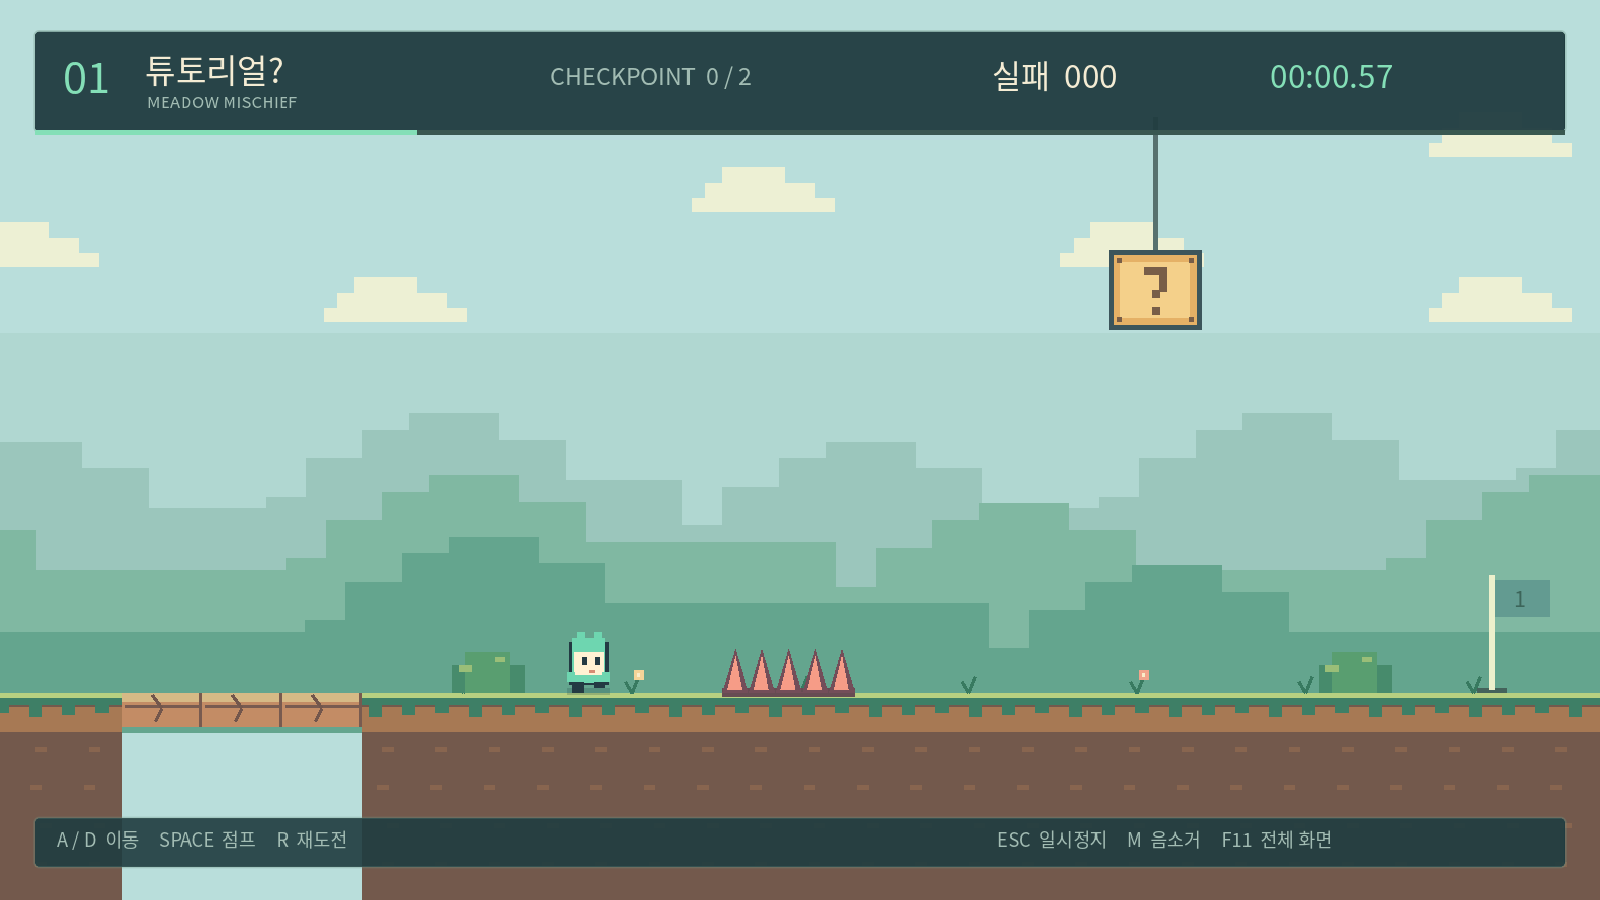
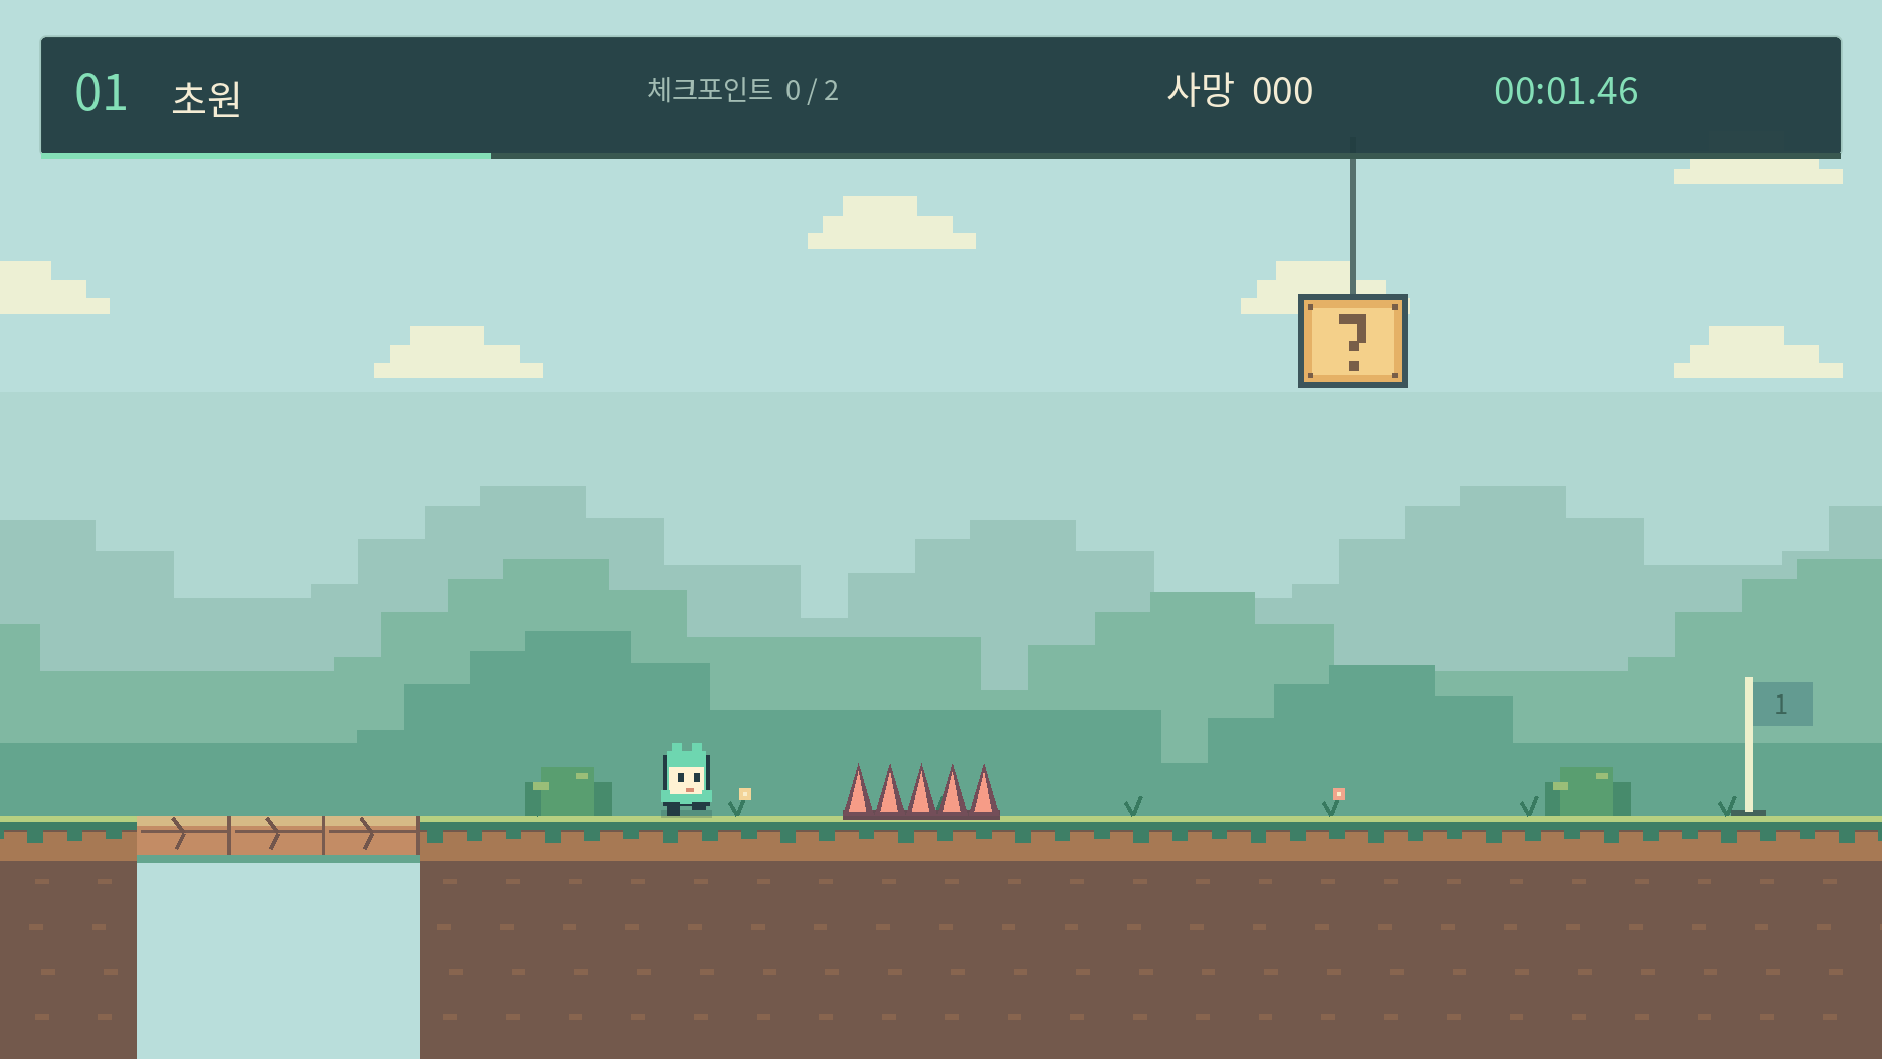
fix: use minimal player copy and bind global copy skill

diff --git a/README.md b/README.md
@@ -1,53 +1,35 @@
-# 한 번만 더! · ONE MORE TRY!
+# 한 번만 더!
 
-쉬운 조작, 수상한 바닥, 빠른 재도전. Godot 4.6.3으로 만든 Windows용 2D 트랩 플랫포머입니다.
-
-**[Windows 다운로드](https://github.com/nu4ddi4/side-scroller-game/releases/latest)** · [기획안](docs/DESIGN.md) · [함정 개편 설계](docs/TRAP_DESIGN.md) · [개발 및 브랜치 운영](docs/DEVELOPMENT.md) · [검증 결과](docs/VALIDATION.md)
+**[Windows 다운로드](https://github.com/nu4ddi4/side-scroller-game/releases/latest)**
 
 ![타이틀 화면](docs/images/title.png)
 
-## 플레이
+## 실행
 
-beta에서는 창을 최대화한 상태로 시작하고, 게임 화면을 창 크기에 맞춰 비율을 유지하며 확대합니다. F11로 전체 화면에 들어갔다 나오면 이전 창 상태로 돌아갑니다. 월드의 안내 팻말과 비밀 길 설명은 제거했습니다. 새 함정 40개를 5장에 걸친 플레이 순서와 상세 카드로 정리했으며 아직 게임에 구현하지 않았습니다.
+설치 파일을 실행한 뒤 시작 메뉴에서 **One More Try!**를 여세요. ZIP은 압축을 풀고 `OneMoreTry.exe`를 실행하면 됩니다.
 
-릴리스의 **`OneMoreTry-v0.2.0-Windows-x64-Setup.exe`**를 실행하면 사용자 계정에 설치됩니다. 시작 메뉴에서 **One More Try!**를 실행하세요. 관리자 권한은 필요하지 않으며 바탕 화면 바로 가기는 설치 중 선택할 수 있습니다. 설치 없이 실행하려면 함께 제공하는 ZIP을 풀고 `OneMoreTry.exe`를 실행하세요. Godot이나 별도 런타임을 설치할 필요가 없습니다. Windows 10/11 64비트와 OpenGL 3.3 호환 그래픽 환경을 대상으로 합니다.
+Windows 10/11 x64 · OpenGL 3.3
+
+## 조작
 
 | 키 | 동작 |
 | --- | --- |
 | A / D, ← / → | 이동 |
-| Space | 점프 · 길게 누르면 더 높이 |
-| R | 마지막 체크포인트에서 즉시 재도전 |
-| ESC | 일시정지 · 계속하기 |
-| M | 전체 음소거 전환 · 음악/효과음 개별 설정 유지 |
-| F11 | 전체 화면 전환 |
-| Tab / Enter | 메뉴 이동 · 선택 |
-
-R 재도전은 실패 1회로 집계합니다. 일시정지 메뉴의 `처음부터 재도전`은 새 도전을 시작합니다. 클리어 시간은 실패·복귀 시간을 포함하며 일시정지 시간은 제외합니다. 진행 위치는 현재 도전 중에 유지하고, 개인 기록은 프로그램 종료 후에도 저장합니다.
-
-## 업데이트
-
-Windows 배포본은 시작할 때 GitHub의 최신 정식 릴리스를 한 번 확인합니다. 타이틀의 **업데이트 확인 / 새 버전 받기 → 다운로드 → 설치하고 종료**에서 직접 설치할 수 있습니다. 다운로드한 설치 파일의 크기와 GitHub의 SHA-256이 일치해야 실행합니다. 다운로드 취소·연결 실패 후에도 게임은 계속할 수 있고, 인터넷 없이 플레이할 수 있습니다. 미리보기 릴리스와 이전 버전은 설치하지 않습니다.
-
-설치는 기존 사용자 설치를 갱신하며 기록은 유지합니다. Windows 설정에서 게임을 제거해도 기록은 남습니다. 기존 v0.1.0에는 업데이트 기능이 없으므로 v0.2.0 설치 파일을 한 번 직접 실행해야 합니다. ZIP 사용자도 업데이트를 설치하면 설치형으로 전환됩니다.
-
-## 현재 버전: 초원 MVP
-
-기획안의 최소 기능 제품 범위인 **스테이지 1개**를 먼저 완성했습니다.
-
-- 가변 점프, 공중 제어, 코요테 타임과 점프 입력 버퍼
-- 밟으면 무너지는 발판, 접근 시 돌출되는 가시, 경고 후 떨어지는 블록
-- 약 0.38초 뒤 자동 복귀, 체크포인트 2개, 카메라 추적
-- 한국어 메뉴·HUD·일시정지·클리어 화면과 사망 횟수 메시지
-- 총 실패, 도전·클리어 수, 최고 시간, 노데스와 비밀 발견 기록
-- 숨겨진 별과 상단 경로, 자체 합성한 칩튠 BGM과 효과음
+| Space | 점프 |
+| R | 다시하기 |
+| ESC | 일시정지 |
+| M | 음소거 |
+| F11 | 전체 화면 |
 
 ![플레이 화면](docs/images/gameplay.png)
 
-스테이지 2~5, 움직이는 장애물, 가짜 코인 등 추가 기믹은 후속 개발 범위입니다. 현재 기록은 첫 스테이지를 기준으로 집계합니다. 기존 `index.html`은 과거 웹 초안이며 현재 게임의 실행 파일은 위 Windows 릴리스입니다.
+## 업데이트
+
+메뉴의 **업데이트**에서 새 버전을 설치할 수 있습니다. 기존 v0.1.0 사용자는 설치 파일을 직접 실행해 주세요.
 
 ## 개발
 
-Godot 4.6.3 Standard에서 `project.godot`을 열고 F5로 실행합니다.
+Godot 4.6.3에서 `project.godot`을 엽니다.
 
 ```bash
 godot --headless --editor --import --quit
@@ -56,6 +38,6 @@ godot --headless --fixed-fps 120 --script tests/playthrough.gd -- --test
 python3 tools/test_updater.py
 ```
 
-개발 흐름은 **`beta`에서 기능 브랜치 생성 → `beta` PR 병합 → `main` 배포 PR 병합**입니다. GitHub Actions에서 브랜치 방향, 물리·저장 회귀 검사, 전체 스테이지 통과, Windows 빌드·설치·재설치·제거와 기록 보존을 확인합니다. `main` 병합 후 새 프로젝트 버전이면 검증한 설치 파일과 ZIP을 정식 GitHub 릴리스로 게시합니다.
+[개발 문서](docs/DEVELOPMENT.md) · [설계](docs/DESIGN.md) · [검증](docs/VALIDATION.md)
 
-코드와 원본 오디오 생성 도구는 이 저장소에 있습니다. Noto Sans CJK 폰트와 Godot 및 엔진 내 제3자 구성 요소의 라이선스는 `assets/fonts/LICENSE.txt`, `docs/GODOT_LICENSE.txt`, `docs/GODOT_COPYRIGHT.txt`를 참고하세요.
+라이선스: `assets/fonts/LICENSE.txt`, `docs/GODOT_LICENSE.txt`, `docs/GODOT_COPYRIGHT.txt`.

diff --git a/docs/VALIDATION.md b/docs/VALIDATION.md
@@ -47,3 +47,11 @@ Windows CI는 설치형 빌드, 한글과 공백이 포함된 경로의 설치·
 Linux X11/Xvfb와 Openbox의 소프트웨어 OpenGL 창에서 최대화 시작(mode 2), F11 전체 화면(mode 3), 최대화 복귀(mode 2)를 확인했습니다. 960×540·1280×720·1600×900의 16:9 창에서 렌더 영역이 각각 창 크기와 일치하고 메뉴·HUD가 잘리지 않는 것을 확인했습니다. 다른 종횡비에서는 960×540의 논리 화면 비율을 유지하므로 작은 여백이 생길 수 있습니다. Windows 장치의 대화형 창 동작은 별도 확인 범위이며 CI에서는 Windows 내보내기·설치·기동을 검증합니다.
 
 기존 게임 검사 58개, 업데이트 검사 54개, 일반 입력 스테이지 노데스 통과(14.81초)를 다시 확인했습니다. 점프 설계에 사용한 평지 높이·거리는 `tools/probe_jumps.gd`로 재현할 수 있으며, 설계 단계인 새 함정의 통과를 증명하는 결과는 아닙니다.
+
+## beta 문구 정리
+
+플레이어 화면에서 슬로건, 장르 소개, 기능 개수, 기획 설명, 사망 원인과 해법, 사망 횟수별 농담을 제거했습니다. 메뉴·지역 이름·기록·결과는 짧은 기능 문구로 정리했습니다. 공개 README와 배포 안내도 같은 기준으로 줄이고 개발 상세는 내부 문서에 남겼습니다. 업데이트 상태와 오류 문구는 실제 선택에 필요한 정보만 남겼습니다.
+
+`plain-product-copy`를 사용자 전역 스킬 경로 `~/.agents/skills/plain-product-copy/`에 설치하고 전역 Codex 지침에 연결했습니다. 저장소 AGENTS.md에도 플레이어 문구 작업에 이 스킬을 적용하도록 기록했습니다. 내부 스킬/지침 파일은 Windows 내보내기에서 제외합니다.
+
+게임 검사 58개, 업데이트 검사 54개와 일반 입력 전체 스테이지 통과(14.81초, 실패 0회)를 확인했습니다. 소프트웨어 OpenGL로 타이틀·플레이·일시정지·클리어·기록 화면을 캡처해 문구와 배치를 확인했고 포함 폰트의 한국어 글리프도 확인했습니다. 스킬 frontmatter와 agents/openai.yaml은 YAML 파싱을 통과했으며 다른 환경으로 옮길 수 있는 ZIP을 만들었습니다.

diff --git a/docs/RELEASE_NOTES.md b/docs/RELEASE_NOTES.md
@@ -1,14 +1,9 @@
-Windows 설치형 배포와 게임 내 업데이트를 추가한 v0.2.0입니다.
+# v0.2.0
 
-- **권장 다운로드: `OneMoreTry-v0.2.0-Windows-x64-Setup.exe`**. 관리자 권한 없이 설치하며 시작 메뉴, 선택형 바탕 화면 바로 가기, 제거 프로그램을 제공합니다.
-- 타이틀에서 **업데이트 확인 → 다운로드 → 설치하고 종료**. GitHub의 새 정식 릴리스 설치 파일을 받아 크기와 SHA-256을 검증한 후 실행합니다.
-- 시작 시 새 버전을 한 번 확인하며 연결 실패·다운로드 취소 후에도 오프라인 플레이를 계속할 수 있습니다. 베타·이전 버전은 설치하지 않습니다.
-- 설치·업데이트·제거 후에도 기존 기록을 유지합니다. ZIP 배포본도 함께 제공합니다.
+- 설치형: `OneMoreTry-v0.2.0-Windows-x64-Setup.exe`
+- ZIP: 압축을 풀고 `OneMoreTry.exe` 실행
+- 메뉴에서 업데이트 확인 및 설치
 
-**v0.1.0 사용자는 이번 설치 파일을 직접 실행해 주세요.** 이전 버전에는 업데이트 기능이 없습니다. ZIP 배포본에서 게임 내 업데이트를 설치하면 설치형으로 전환되므로 이후 시작 메뉴에서 실행하세요.
+v0.1.0 사용자는 설치 파일을 직접 실행해 주세요.
 
-Windows 10/11 x64 및 OpenGL 3.3 환경용 Godot 4.6.3 게임입니다. 초원 스테이지 1개와 기존 게임 기능을 포함합니다. 실행 파일과 설치 파일에는 코드 서명이 적용되지 않았습니다.
-
-게임 회귀 검사, 일반 입력 전체 스테이지 통과, 실제 HTTP 다운로드 및 손상 파일 검증과 Windows 설치·재설치·실행·제거·기록 보존을 통과한 파일을 배포합니다. 장치별 GPU·오디오와 대화형 설치 UI는 별도 수동 플레이 테스트 범위입니다.
-
-소스와 설치 스크립트는 이 태그를 참고하세요. `feature/* → beta → main` 병합 후 GitHub Actions에서 검증하고 배포합니다.
+Windows 10/11 x64 · OpenGL 3.3

diff --git a/docs/DESIGN.md b/docs/DESIGN.md
@@ -80,13 +80,13 @@
 
 | 스테이지 | 테마 | 주요 기믹 |
 |---|---|---|
-| 1. 튜토리얼? | 초원 | 낙하 바닥, 갑자기 등장하는 가시 |
-| 2. 믿지 마세요 | 동굴 | 가짜 코인, 숨겨진 발판 |
-| 3. 타이밍 지옥 | 공장 | 움직이는 가시, 압축기 |
-| 4. 안전한 길 | 하늘 | 사라지는 발판, 낙하 함정 |
-| 5. 마지막 기회 | 혼합 | 기존 함정 조합, 가짜 골인 |
+| 1. 초원 | 초원 | 낙하 바닥, 갑자기 등장하는 가시 |
+| 2. 동굴 | 동굴 | 가짜 코인, 숨겨진 발판 |
+| 3. 공장 | 공장 | 움직이는 가시, 압축기 |
+| 4. 하늘 | 하늘 | 사라지는 발판, 낙하 함정 |
+| 5. 성 | 혼합 | 기존 함정 조합, 가짜 골인 |
 
-### 스테이지 1 — 튜토리얼?
+### 스테이지 1 — 초원
 1. 이동과 점프를 익힌다.
 2. 평범한 바닥이 무너지면서 첫 번째 실패를 유도한다.
 3. 해당 구간을 점프로 넘도록 학습한다.

diff --git a/AGENTS.md b/AGENTS.md
@@ -1,0 +1,5 @@
+# Project instructions
+
+For player-facing wording, apply the user-level `plain-product-copy` skill (`~/.agents/skills/plain-product-copy/SKILL.md`) when available. Keep only necessary functional labels. Do not disclose hidden mechanics, design intent, hints, or the absence of hints. Do not add a replacement slogan when deleting explanatory text. Keep design details in developer documentation.
+
+Follow the branch flow in docs/DEVELOPMENT.md: feature/*, fix/*, or chore/* into beta. Publish from main only for an explicitly requested release.

diff --git a/docs/DEVELOPMENT.md b/docs/DEVELOPMENT.md
@@ -1,5 +1,7 @@
 # 개발 운영
 
+플레이어용 문구는 전역 `plain-product-copy` 스킬을 적용합니다. 제목·동작·상태만 짧게 남기며 기획 의도와 공략은 내부 문서에서 다룹니다.
+
 Godot 4.6.3 Standard와 GDScript를 사용합니다. 소스 편집과 로컬 플레이에 .NET은 필요하지 않습니다.
 
 ## 브랜치
